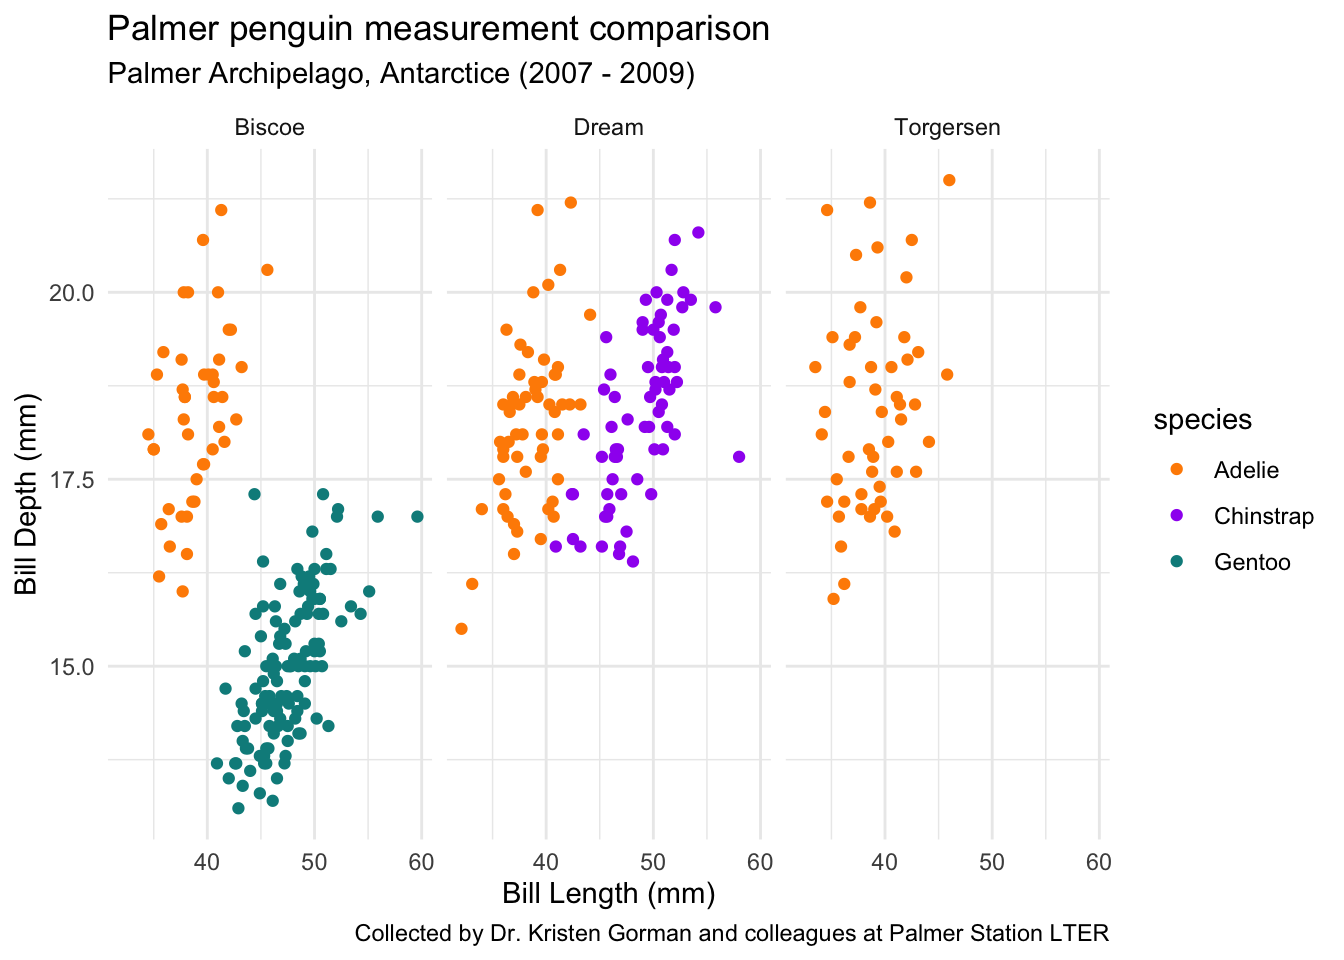
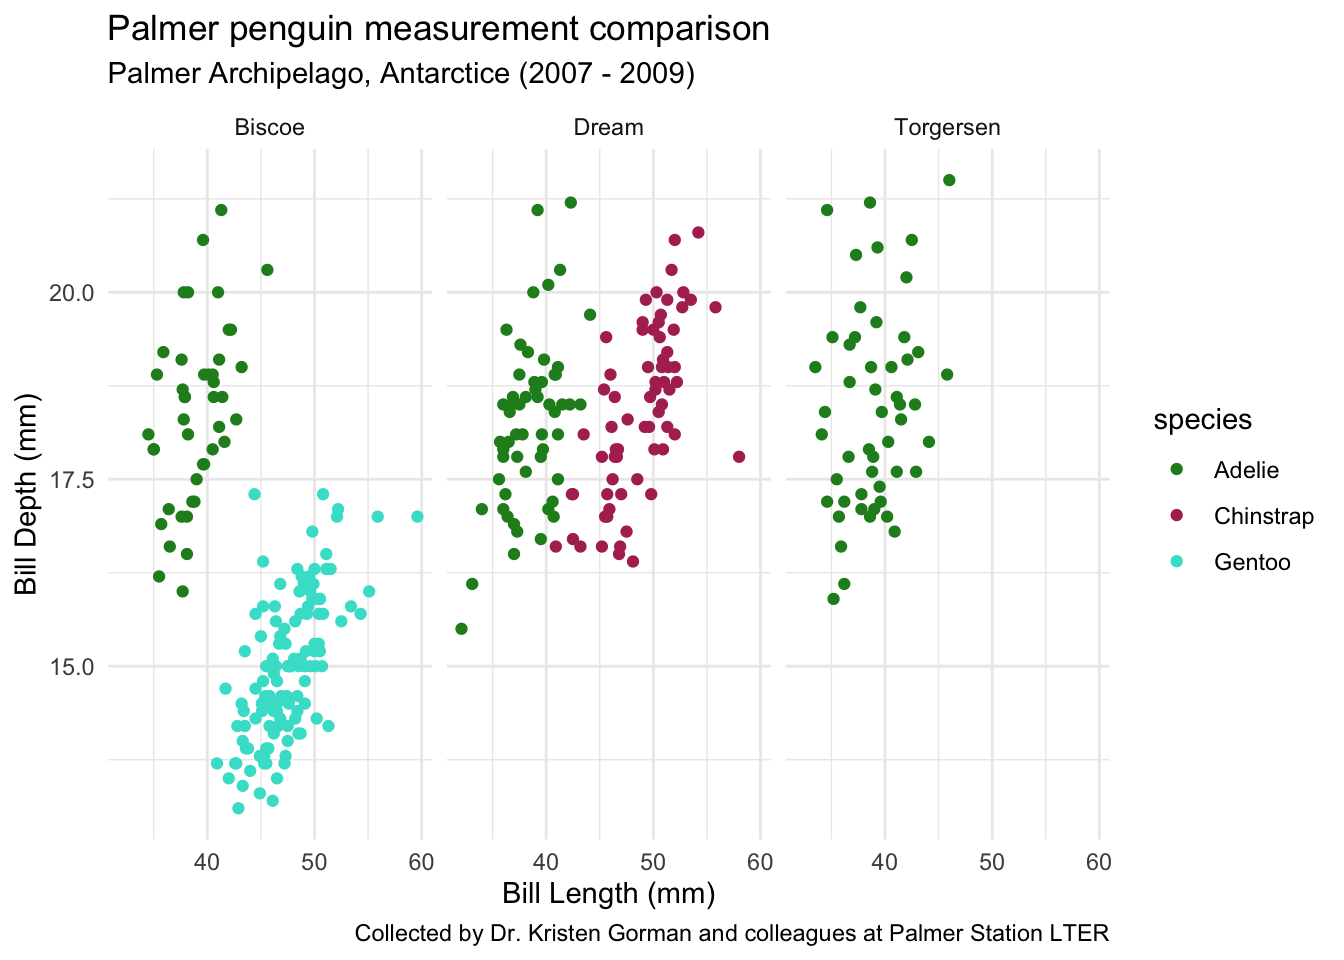
This time plot one had its species colors changed to {forestgreen, maroon, and turquoise} respectively.

diff --git a/eds212_day2_activities.html b/eds212_day2_activities.html
@@ -158,7 +158,7 @@ pre > code.sourceCode > span > a:first-child::before { text-decoration: underlin
 <div class="sourceCode cell-code" id="cb8"><pre class="sourceCode r code-with-copy"><code class="sourceCode r"><span id="cb8-1"><a href="#cb8-1" aria-hidden="true" tabindex="-1"></a><span class="co"># create plot for bill length vs depth ----</span></span>
 <span id="cb8-2"><a href="#cb8-2" aria-hidden="true" tabindex="-1"></a><span class="fu">ggplot</span>(<span class="at">data =</span> penguins, <span class="fu">aes</span>(<span class="at">x =</span> bill_length_mm, <span class="at">y =</span> bill_depth_mm)) <span class="sc">+</span></span>
 <span id="cb8-3"><a href="#cb8-3" aria-hidden="true" tabindex="-1"></a>  <span class="fu">geom_point</span>(<span class="fu">aes</span>(<span class="at">color =</span> species)) <span class="sc">+</span></span>
-<span id="cb8-4"><a href="#cb8-4" aria-hidden="true" tabindex="-1"></a>  <span class="fu">scale_color_manual</span>(<span class="at">values =</span> <span class="fu">c</span>(<span class="st">"darkorange"</span>,<span class="st">"purple"</span>,<span class="st">"cyan4"</span>)) <span class="sc">+</span></span>
+<span id="cb8-4"><a href="#cb8-4" aria-hidden="true" tabindex="-1"></a>  <span class="fu">scale_color_manual</span>(<span class="at">values =</span> <span class="fu">c</span>(<span class="st">"forestgreen"</span>,<span class="st">"maroon"</span>,<span class="st">"turquoise"</span>)) <span class="sc">+</span></span>
 <span id="cb8-5"><a href="#cb8-5" aria-hidden="true" tabindex="-1"></a>  <span class="fu">labs</span>(<span class="at">x =</span> <span class="st">"Bill Length (mm)"</span>,</span>
 <span id="cb8-6"><a href="#cb8-6" aria-hidden="true" tabindex="-1"></a>       <span class="at">y =</span> <span class="st">"Bill Depth (mm)"</span>,</span>
 <span id="cb8-7"><a href="#cb8-7" aria-hidden="true" tabindex="-1"></a>       <span class="at">title =</span> <span class="st">"Palmer penguin measurement comparison"</span>,</span>
